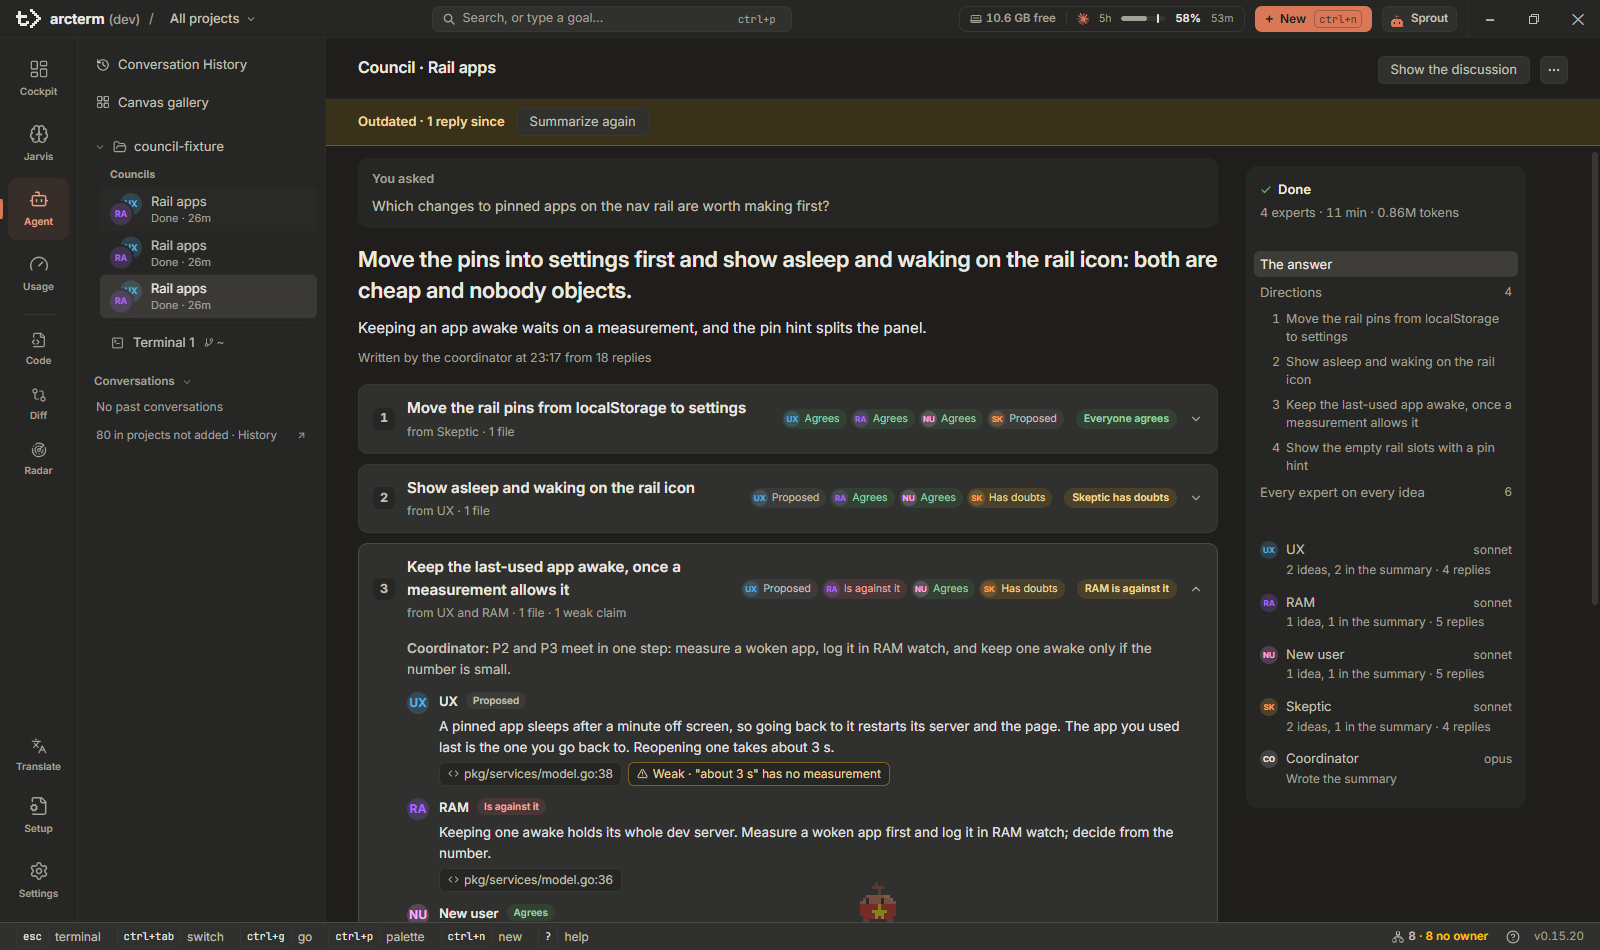
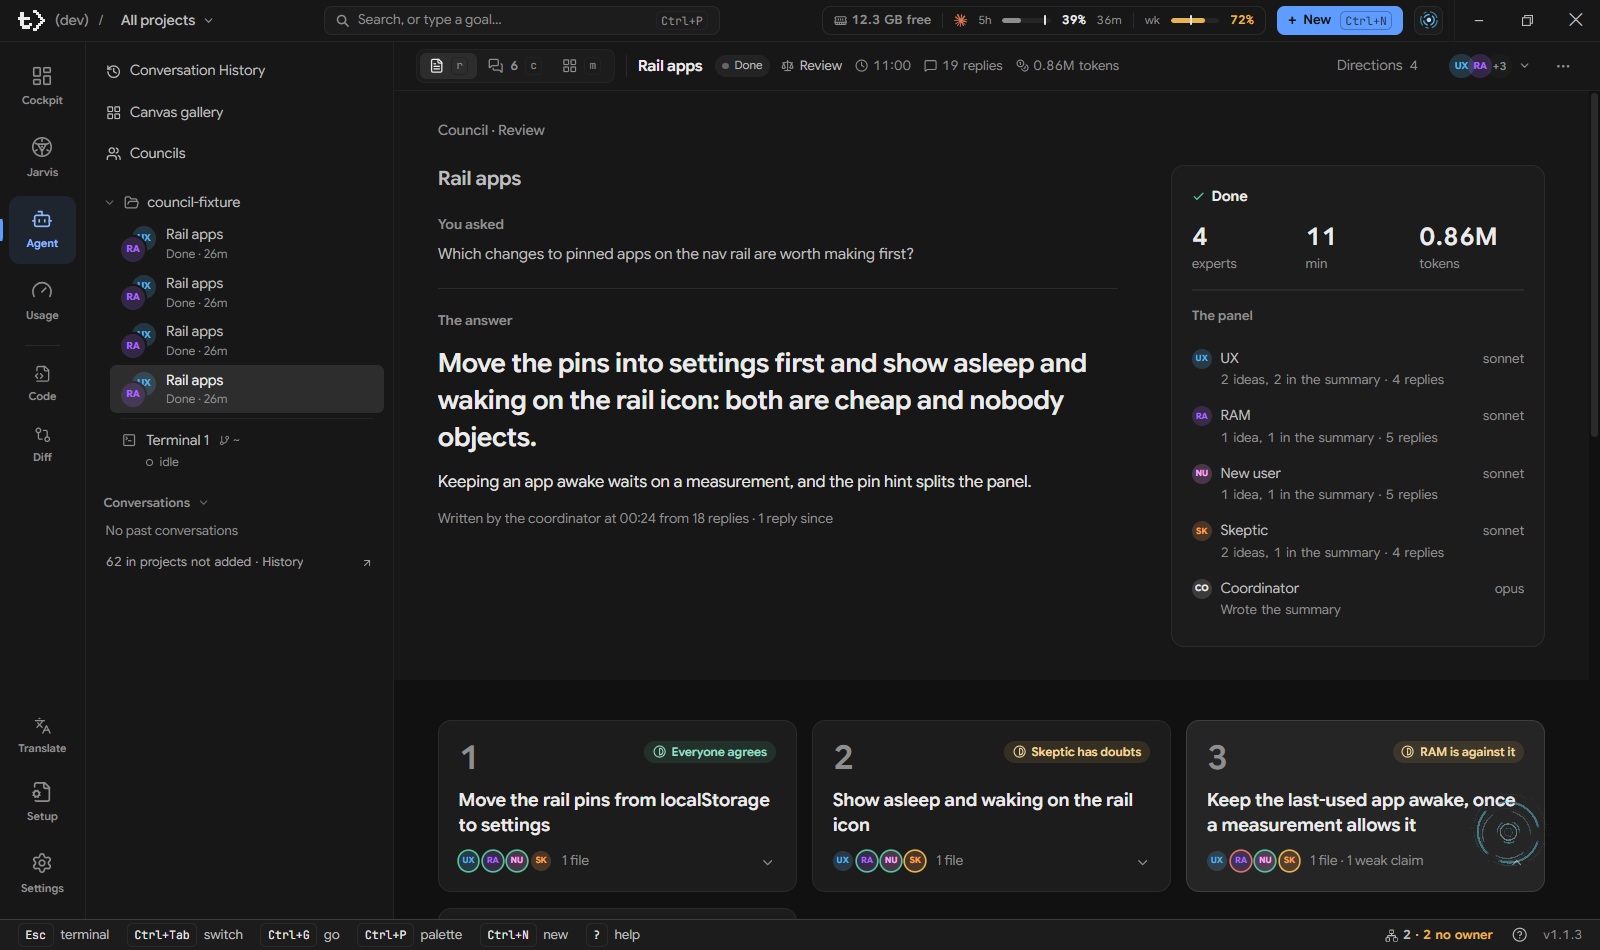
docs(guide): the council Report shot from batch 2's Final, and a caption that says what it shows
Arc-Run: e6d14c4f-2b81-4fb8-9cb6-c052e91589cb

diff --git a/docs/guide/council.md b/docs/guide/council.md
@@ -283,7 +283,7 @@ agrees with which idea in Map" mở nó.
   điều câu trích nói. `wsh council cites <báo cáo.md>` chạy cùng bước kiểm trên một báo cáo đã có (`--root` để chọn thư
   mục); với báo cáo cũ nó đọc file của hôm nay, nên một file đổi tên sau đó hiện là wrong.
 
-![Báo cáo của council: dải "Outdated · 1 reply since" với Summarize again, câu bạn hỏi, câu trả lời in đậm, các hướng đi đánh số kèm chip lập trường của từng chuyên gia, một hướng mở ra lý lẽ của từng người; cột thông tin bên phải với mục lục và các chuyên gia](images/council-report.png)
+![Báo cáo của council: câu bạn hỏi, câu trả lời in đậm và dòng nói ai viết nó, từ bao nhiêu reply; cột thông tin bên phải với số chuyên gia, số phút, số token và từng chuyên gia cùng model của họ; bên dưới là các hướng đi đánh số, đang đóng, kèm chip lập trường và các chuyên gia đã góp vào](images/council-report.png)
 
 ## Khi một lượt gọi bị lỗi
 
